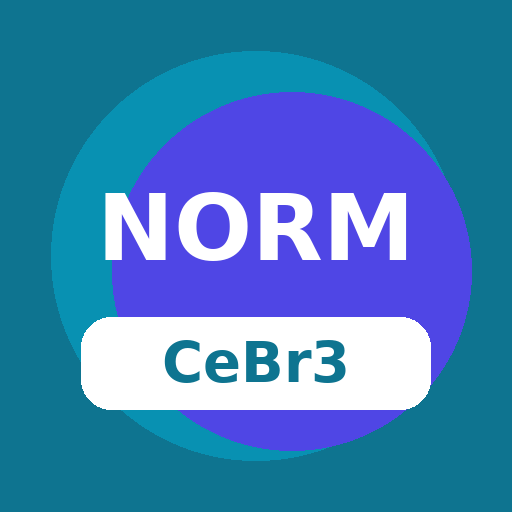
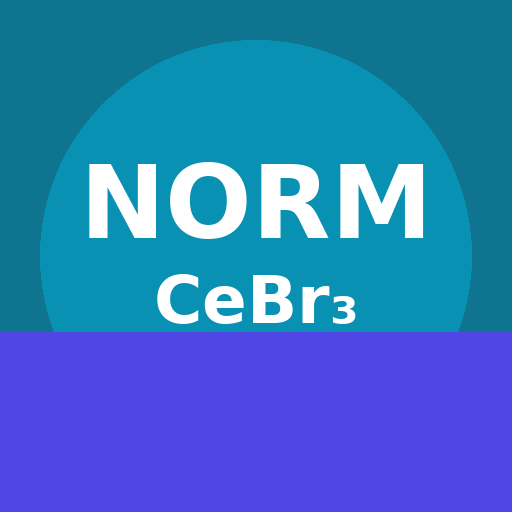
Add files via upload

diff --git a/index.html b/index.html
@@ -156,86 +156,60 @@
   .cfg-msg.ok{color:#047857}.cfg-msg.err{color:#dc2626}
 
 
-/* ===== NORM CeBr3 Mobile Stable v6: responsive patch, CSS only ===== */
-html, body { max-width:100%; overflow-x:hidden; }
-img, canvas, svg, video { max-width:100%; height:auto; }
-input, select, textarea, button { max-width:100%; }
-.scroll { max-width:100%; overflow-x:auto; -webkit-overflow-scrolling:touch; }
-.tbl, .card, .cfg-box, .cfg-panel, .modal { max-width:100%; }
-#peakTable { min-width:720px; }
+/* ===== Mobile/PWA stable patch v7: không làm thay đổi JavaScript gốc ===== */
+:root{--bottom-nav-h:72px}
+html,body{max-width:100%;overflow-x:hidden;}
+img,svg,canvas,video{max-width:100%;height:auto;}
+.mobile-bottom-nav{position:fixed;left:0;right:0;bottom:0;z-index:9999;display:none;background:rgba(255,255,255,.96);backdrop-filter:blur(12px);border-top:1px solid #dbeafe;box-shadow:0 -8px 28px rgba(15,23,42,.10);padding:6px max(6px,env(safe-area-inset-left)) max(6px,env(safe-area-inset-bottom)) max(6px,env(safe-area-inset-right));}
+.mobile-bottom-nav button{appearance:none;border:0;background:transparent;color:#334155;font-size:11px;font-weight:700;line-height:1.15;display:flex;flex-direction:column;align-items:center;justify-content:center;gap:3px;border-radius:14px;padding:6px 2px;min-width:0;}
+.mobile-bottom-nav button span{font-size:22px;line-height:1;}
+.mobile-bottom-nav button.active{background:#ecfeff;color:#0e7490;}
 
-.mobile-bottom-nav{display:none}
-
-@media (max-width: 760px){
-  body{font-size:15px;padding-bottom:82px;}
-  header .wrap{padding:12px 14px;display:block;}
+@media(max-width:820px){
+  body{font-size:14px;}
+  header .wrap{padding:12px 14px;}
   header h1{font-size:16px;line-height:1.25;}
-  header .sub{font-size:11px;white-space:normal;line-height:1.45;}
-  header .pill{display:inline-block;margin-top:8px;}
-  .cfgbar{width:100%;max-width:100%;padding:0 14px;}
-  .cfg-row{gap:8px;padding:10px 0;}
-  .cfg-title,.cfg-guide{width:100%;justify-content:center;padding:11px 12px;font-size:13px;}
-  .cfg-stat{display:block;width:100%;font-size:11px;line-height:1.45;}
-  .cfg-panel{padding:12px;border-radius:14px;}
-  .cfg-grid{grid-template-columns:1fr!important;gap:12px;}
-  .cfg-box{padding:12px;border-radius:14px;overflow:hidden;}
-  .cfg-btns{display:grid;grid-template-columns:1fr;gap:8px;}
-  .cfg-b{width:100%;padding:10px 12px;font-size:13px;}
-  .cfg-files{padding-left:16px;overflow-wrap:anywhere;}
-  .cfg-peaks{display:grid;grid-template-columns:1fr 1fr;gap:8px;}
-  .cfg-peaks label{display:flex;min-width:0;white-space:normal;line-height:1.35;padding:10px 9px;font-size:12px;}
-  .cfg-peaks input{flex:0 0 auto;}
-
-  main{display:block!important;width:100%;max-width:100%;padding:14px 14px 90px;}
-  main>section{width:100%;max-width:100%;}
-  .card{border-radius:14px;padding:14px;margin-bottom:14px;}
-  .head{align-items:flex-start;}
-  .head span{font-size:13px;line-height:1.3;}
-  label.row{display:block;margin:10px 0;}
-  label.row>span{display:block;margin-bottom:6px;white-space:normal;font-size:12.5px;}
-  label.row input,label.row select{width:100%!important;min-height:42px;font-size:16px;padding:9px 10px;}
-  input[type=number]{width:100%!important;font-size:16px;text-align:right;}
-  .btnrow{grid-template-columns:1fr;}
-  button{min-height:40px;font-size:13px;}
-  .dz{padding:24px 12px;border-radius:14px;}
-  .summ{grid-template-columns:1fr 1fr!important;gap:10px;}
-  .sc{border-radius:12px;}
-  .sc .v{font-size:20px;}
-  .adq{border-radius:10px;padding:10px;font-size:12px;line-height:1.45;}
-  .dbhead{display:block;padding:10px 12px;}
-  .dbhead .acts{display:grid;grid-template-columns:1fr;gap:8px;margin-top:8px;}
-  .dbhead input.search,.dbhead button{width:100%;min-height:38px;}
-  .filebar{display:block;line-height:1.5;}
-  .filebar .fb-btn{width:100%;margin-top:8px;min-height:38px;}
-  .kv{grid-template-columns:1fr;gap:6px;}
-  .modal{border-radius:14px;}
-  .overlay{padding:18px 10px;}
-
-  /* IAEA standard parameter table -> cards on phone */
-  .cfg-stdtbl,
-  .cfg-stdtbl thead,
-  .cfg-stdtbl tbody,
-  .cfg-stdtbl tr,
-  .cfg-stdtbl th,
-  .cfg-stdtbl td{display:block;width:100%;max-width:100%;}
-  .cfg-stdtbl{border-collapse:separate;border-spacing:0;}
-  .cfg-stdtbl thead{display:none;}
-  .cfg-stdtbl tr{background:#fff;border:1px solid #e2e8f0;border-radius:14px;padding:12px;margin:10px 0;box-shadow:0 1px 0 rgba(15,23,42,.03);}
-  .cfg-stdtbl td{border:0!important;padding:0!important;text-align:left!important;font-family:inherit!important;}
-  .cfg-stdtbl td:first-child{font-size:15px;font-weight:750;color:#0f766e;margin-bottom:10px;}
-  .cfg-stdtbl td:nth-child(2)::before{content:"Hoạt độ (Bq/kg)";display:block;font-size:11px;color:#475569;font-weight:650;margin:2px 0 4px;}
-  .cfg-stdtbl td:nth-child(3)::before{content:"Khối lượng m (kg)";display:block;font-size:11px;color:#475569;font-weight:650;margin:10px 0 4px;}
-  .cfg-stdtbl input{width:100%!important;max-width:100%;min-height:44px;text-align:right;font-size:16px;padding:9px 10px;border-radius:10px;}
-
-  .mobile-bottom-nav{position:fixed;left:0;right:0;bottom:0;z-index:80;display:grid;grid-template-columns:repeat(5,1fr);gap:0;background:rgba(255,255,255,.96);border-top:1px solid #e2e8f0;box-shadow:0 -6px 22px rgba(15,23,42,.10);backdrop-filter:saturate(180%) blur(10px);padding:6px 4px calc(6px + env(safe-area-inset-bottom));}
-  .mobile-bottom-nav button{appearance:none;background:transparent;border:0;border-radius:12px;min-height:54px;padding:4px 2px;color:#334155;font-weight:700;font-size:11px;line-height:1.1;display:flex;flex-direction:column;align-items:center;justify-content:center;gap:2px;}
-  .mobile-bottom-nav button span{font-size:20px;line-height:1;}
-  .mobile-bottom-nav button.active{background:#ecfeff;color:#0e7490;}
+  header .sub{font-size:11px;white-space:normal;}
+  main{display:block!important;width:100%!important;max-width:100%!important;padding:14px 10px calc(var(--bottom-nav-h) + 20px)!important;overflow-x:hidden!important;}
+  .cfgbar{width:100%!important;max-width:100%!important;padding:0 10px!important;overflow-x:hidden!important;}
+  .cfg-row{gap:8px;}
+  .cfg-title,.cfg-guide{width:100%;justify-content:center;}
+  .card,.tbl,.sc,.modal,.cfg-panel,.cfg-box{max-width:100%!important;overflow:hidden!important;border-radius:14px;}
+  .summ{grid-template-columns:repeat(2,minmax(0,1fr))!important;gap:10px;}
+  .sc .v{font-size:19px;overflow-wrap:anywhere;}
+  label.row{display:grid!important;grid-template-columns:1fr!important;align-items:start!important;gap:4px!important;margin:9px 0!important;}
+  label.row>span{white-space:normal!important;}
+  input,select,textarea{max-width:100%!important;min-width:0!important;}
+  input[type=number],input.grow,select.grow,.grow{width:100%!important;}
+  .btnrow{grid-template-columns:1fr!important;}
+  .dz{padding:20px 10px;}
+  .filebar,.dbhead{display:grid!important;grid-template-columns:1fr!important;gap:8px!important;}
+  .dbhead .acts{display:grid!important;grid-template-columns:1fr 1fr;gap:6px;width:100%;}
+  .dbhead input.search{width:100%!important;}
+  .scroll{display:block;max-width:100%!important;overflow-x:auto!important;-webkit-overflow-scrolling:touch;}
+  .scroll table{min-width:720px;}
+  .tbl:not(.no-scroll){overflow-x:auto!important;-webkit-overflow-scrolling:touch;}
+  .tbl:not(.no-scroll) table{min-width:720px;}
+  /* Riêng bảng Tham số chuẩn IAEA chuyển thành card để không tràn ngang */
+  .cfg-stdtbl{display:block!important;width:100%!important;max-width:100%!important;border-collapse:separate!important;}
+  .cfg-stdtbl thead{display:none!important;}
+  .cfg-stdtbl tbody{display:block!important;width:100%!important;}
+  .cfg-stdtbl tr{display:grid!important;grid-template-columns:1fr 1fr!important;gap:8px!important;width:100%!important;padding:10px 0!important;border-bottom:1px solid #e2e8f0!important;}
+  .cfg-stdtbl td{display:block!important;width:100%!important;border:0!important;padding:0!important;text-align:left!important;min-width:0!important;}
+  .cfg-stdtbl td:first-child{grid-column:1/-1!important;font-size:13px!important;background:#f8fafc;border-radius:9px;padding:7px 9px!important;}
+  .cfg-stdtbl td:nth-child(2)::before{content:'Hoạt độ (Bq/kg)';display:block;font-size:11px;color:#64748b;margin-bottom:3px;font-family:system-ui,-apple-system,'Segoe UI',Roboto,sans-serif;font-weight:650;}
+  .cfg-stdtbl td:nth-child(3)::before{content:'Khối lượng (kg)';display:block;font-size:11px;color:#64748b;margin-bottom:3px;font-family:system-ui,-apple-system,'Segoe UI',Roboto,sans-serif;font-weight:650;}
+  .cfg-stdtbl input{width:100%!important;max-width:100%!important;text-align:right!important;font-size:16px!important;padding:9px 10px!important;}
+  .kv{grid-template-columns:1fr!important;}
+  .modal{margin-bottom:calc(var(--bottom-nav-h) + 10px);}
+  .modal .mb{padding:14px;}
+  .mobile-bottom-nav{display:grid;grid-template-columns:repeat(5,minmax(0,1fr));}
 }
 
-@media (max-width: 390px){
-  .cfg-peaks{grid-template-columns:1fr;}
-  .summ{grid-template-columns:1fr!important;}
+@media(max-width:420px){
+  .summ{grid-template-columns:1fr 1fr!important;}
+  .cfg-stdtbl tr{grid-template-columns:1fr!important;}
+  .cfg-stdtbl td:first-child{grid-column:auto!important;}
 }
 
 </style>
@@ -794,98 +768,7 @@ function buildReportHTML(rep,smp,sumArg,peakArg){
   'td{padding:5px 8px;border-bottom:1px solid #f1f5f9}.r{text-align:right}'+
   '.note{font-size:12px;padding:8px 10px;border-left:3px solid '+noteCol+';background:'+noteBg+';margin-top:10px;border-radius:0 4px 4px 0}'+
   '.foot{margin-top:24px;padding-top:10px;border-top:1px solid #e2e8f0;font-size:11px;color:#475569;line-height:1.5}'+
-  '@media print{body{background:#fff}.page{box-shadow:none;margin:0;max-width:none;padding:0}}
-
-/* ===== NORM CeBr3 Mobile Stable v6: responsive patch, CSS only ===== */
-html, body { max-width:100%; overflow-x:hidden; }
-img, canvas, svg, video { max-width:100%; height:auto; }
-input, select, textarea, button { max-width:100%; }
-.scroll { max-width:100%; overflow-x:auto; -webkit-overflow-scrolling:touch; }
-.tbl, .card, .cfg-box, .cfg-panel, .modal { max-width:100%; }
-#peakTable { min-width:720px; }
-
-.mobile-bottom-nav{display:none}
-
-@media (max-width: 760px){
-  body{font-size:15px;padding-bottom:82px;}
-  header .wrap{padding:12px 14px;display:block;}
-  header h1{font-size:16px;line-height:1.25;}
-  header .sub{font-size:11px;white-space:normal;line-height:1.45;}
-  header .pill{display:inline-block;margin-top:8px;}
-  .cfgbar{width:100%;max-width:100%;padding:0 14px;}
-  .cfg-row{gap:8px;padding:10px 0;}
-  .cfg-title,.cfg-guide{width:100%;justify-content:center;padding:11px 12px;font-size:13px;}
-  .cfg-stat{display:block;width:100%;font-size:11px;line-height:1.45;}
-  .cfg-panel{padding:12px;border-radius:14px;}
-  .cfg-grid{grid-template-columns:1fr!important;gap:12px;}
-  .cfg-box{padding:12px;border-radius:14px;overflow:hidden;}
-  .cfg-btns{display:grid;grid-template-columns:1fr;gap:8px;}
-  .cfg-b{width:100%;padding:10px 12px;font-size:13px;}
-  .cfg-files{padding-left:16px;overflow-wrap:anywhere;}
-  .cfg-peaks{display:grid;grid-template-columns:1fr 1fr;gap:8px;}
-  .cfg-peaks label{display:flex;min-width:0;white-space:normal;line-height:1.35;padding:10px 9px;font-size:12px;}
-  .cfg-peaks input{flex:0 0 auto;}
-
-  main{display:block!important;width:100%;max-width:100%;padding:14px 14px 90px;}
-  main>section{width:100%;max-width:100%;}
-  .card{border-radius:14px;padding:14px;margin-bottom:14px;}
-  .head{align-items:flex-start;}
-  .head span{font-size:13px;line-height:1.3;}
-  label.row{display:block;margin:10px 0;}
-  label.row>span{display:block;margin-bottom:6px;white-space:normal;font-size:12.5px;}
-  label.row input,label.row select{width:100%!important;min-height:42px;font-size:16px;padding:9px 10px;}
-  input[type=number]{width:100%!important;font-size:16px;text-align:right;}
-  .btnrow{grid-template-columns:1fr;}
-  button{min-height:40px;font-size:13px;}
-  .dz{padding:24px 12px;border-radius:14px;}
-  .summ{grid-template-columns:1fr 1fr!important;gap:10px;}
-  .sc{border-radius:12px;}
-  .sc .v{font-size:20px;}
-  .adq{border-radius:10px;padding:10px;font-size:12px;line-height:1.45;}
-  .dbhead{display:block;padding:10px 12px;}
-  .dbhead .acts{display:grid;grid-template-columns:1fr;gap:8px;margin-top:8px;}
-  .dbhead input.search,.dbhead button{width:100%;min-height:38px;}
-  .filebar{display:block;line-height:1.5;}
-  .filebar .fb-btn{width:100%;margin-top:8px;min-height:38px;}
-  .kv{grid-template-columns:1fr;gap:6px;}
-  .modal{border-radius:14px;}
-  .overlay{padding:18px 10px;}
-
-  /* IAEA standard parameter table -> cards on phone */
-  .cfg-stdtbl,
-  .cfg-stdtbl thead,
-  .cfg-stdtbl tbody,
-  .cfg-stdtbl tr,
-  .cfg-stdtbl th,
-  .cfg-stdtbl td{display:block;width:100%;max-width:100%;}
-  .cfg-stdtbl{border-collapse:separate;border-spacing:0;}
-  .cfg-stdtbl thead{display:none;}
-  .cfg-stdtbl tr{background:#fff;border:1px solid #e2e8f0;border-radius:14px;padding:12px;margin:10px 0;box-shadow:0 1px 0 rgba(15,23,42,.03);}
-  .cfg-stdtbl td{border:0!important;padding:0!important;text-align:left!important;font-family:inherit!important;}
-  .cfg-stdtbl td:first-child{font-size:15px;font-weight:750;color:#0f766e;margin-bottom:10px;}
-  .cfg-stdtbl td:nth-child(2)::before{content:"Hoạt độ (Bq/kg)";display:block;font-size:11px;color:#475569;font-weight:650;margin:2px 0 4px;}
-  .cfg-stdtbl td:nth-child(3)::before{content:"Khối lượng m (kg)";display:block;font-size:11px;color:#475569;font-weight:650;margin:10px 0 4px;}
-  .cfg-stdtbl input{width:100%!important;max-width:100%;min-height:44px;text-align:right;font-size:16px;padding:9px 10px;border-radius:10px;}
-
-  .mobile-bottom-nav{position:fixed;left:0;right:0;bottom:0;z-index:80;display:grid;grid-template-columns:repeat(5,1fr);gap:0;background:rgba(255,255,255,.96);border-top:1px solid #e2e8f0;box-shadow:0 -6px 22px rgba(15,23,42,.10);backdrop-filter:saturate(180%) blur(10px);padding:6px 4px calc(6px + env(safe-area-inset-bottom));}
-  .mobile-bottom-nav button{appearance:none;background:transparent;border:0;border-radius:12px;min-height:54px;padding:4px 2px;color:#334155;font-weight:700;font-size:11px;line-height:1.1;display:flex;flex-direction:column;align-items:center;justify-content:center;gap:2px;}
-  .mobile-bottom-nav button span{font-size:20px;line-height:1;}
-  .mobile-bottom-nav button.active{background:#ecfeff;color:#0e7490;}
-}
-
-@media (max-width: 390px){
-  .cfg-peaks{grid-template-columns:1fr;}
-  .summ{grid-template-columns:1fr!important;}
-}
-
-</style>
-<link rel="manifest" href="./manifest.json">
-<meta name="theme-color" content="#0e7490">
-<meta name="mobile-web-app-capable" content="yes">
-<meta name="apple-mobile-web-app-capable" content="yes">
-<meta name="apple-mobile-web-app-title" content="NORM CeBr3">
-<link rel="apple-touch-icon" href="./icon-192.png">
-</head><body><div class="page">'+
+  '@media print{body{background:#fff}.page{box-shadow:none;margin:0;max-width:none;padding:0}}</style></head><body><div class="page">'+
   '<h1>Báo cáo định lượng NORM — phương pháp so sánh</h1>'+
   '<p class="sub">Viện Khoa học và Kỹ thuật Hạt nhân · đầu dò CeBr₃ 1.5″ (SN 01221005, HV 710 V) · bGamma</p><div class="bar"></div>'+
   '<div class="meta"><div><span>Khách hàng</span>'+esc(r.customer||"—")+'</div><div><span>Ngày đo</span>'+esc(r.date||"—")+'</div>'+
@@ -897,34 +780,7 @@ input, select, textarea, button { max-width:100%; }
   '<h2>Chi tiết theo đỉnh</h2><table><thead><tr><th>E (keV)</th><th>Đồng vị</th><th class="r">CF (cps/Bq)</th><th class="r">A_tổng (Bq)</th><th class="r">C_mẫu (Bq/kg)</th><th class="r">u (%)</th><th class="r">MDA (Bq/kg)</th><th class="r">Phông</th></tr></thead><tbody>'+peakRows+'</tbody></table>'+
   (adeq?'<div class="note">'+adeq+'</div>':'')+
   '<div class="foot">Chuỗi tính: CF = R_chuẩn,net /(C·m_chuẩn) → A_tổng = R_mẫu,net /CF → C_mẫu = A_tổng /m_mẫu. Trung bình trọng số theo 1/u². Xuất từ công cụ NORM · '+new Date().toLocaleString("vi-VN")+'.</div>'+
-  '</div>
-<nav class="mobile-bottom-nav" aria-label="Điều hướng nhanh">
-  <button type="button" data-go="load"><span>📥</span>Nạp mẫu</button>
-  <button type="button" data-go="results"><span>📊</span>Kết quả</button>
-  <button type="button" data-go="detail"><span>🧮</span>Chi tiết</button>
-  <button type="button" data-go="history"><span>🗂️</span>Lịch sử</button>
-  <button type="button" data-go="config"><span>⚙️</span>Cấu hình</button>
-</nav>
-<script>
-(function(){
-  function qs(s){return document.querySelector(s)}
-  function openCfg(){var p=qs('#cfgPanel'); if(p&&p.classList.contains('hidden')){var b=qs('#btnCfgToggle'); if(b) b.click(); else p.classList.remove('hidden');}}
-  function go(where){
-    var target=null;
-    if(where==='load') target=qs('#drop')||qs('main');
-    if(where==='results') target=qs('#summary')||qs('main section:nth-child(2)');
-    if(where==='detail') target=qs('#peakTable')||qs('.tbl');
-    if(where==='history') target=qs('#dbBody')||qs('.dbhead');
-    if(where==='config'){openCfg(); target=qs('#cfgBar');}
-    if(target) target.scrollIntoView({behavior:'smooth', block:'start'});
-    document.querySelectorAll('.mobile-bottom-nav button').forEach(function(b){b.classList.toggle('active', b.dataset.go===where);});
-  }
-  document.addEventListener('click',function(e){var b=e.target.closest&&e.target.closest('.mobile-bottom-nav button'); if(b) go(b.dataset.go);});
-  if('serviceWorker' in navigator){ window.addEventListener('load',function(){navigator.serviceWorker.register('./sw.js').catch(function(){});}); }
-})();
-</script>
-
-</body></html>';
+  '</div></body></html>';
 }
 
 /* ---------------- nạp file ---------------- */
@@ -1335,17 +1191,16 @@ document.addEventListener("DOMContentLoaded",init);
   function openCfg(){var p=qs('#cfgPanel'); if(p&&p.classList.contains('hidden')){var b=qs('#btnCfgToggle'); if(b) b.click(); else p.classList.remove('hidden');}}
   function go(where){
     var target=null;
-    if(where==='load') target=qs('#drop')||qs('main');
-    if(where==='results') target=qs('#summary')||qs('main section:nth-child(2)');
-    if(where==='detail') target=qs('#peakTable')||qs('.tbl');
+    if(where==='load') target=qs('#drop')||qs('.dz')||qs('main');
+    if(where==='results') target=qs('#summary')||qs('.summ')||qs('main');
+    if(where==='detail') target=qs('#peakDetail')||qs('.tbl')||qs('table');
     if(where==='history') target=qs('#dbBody')||qs('.dbhead');
     if(where==='config'){openCfg(); target=qs('#cfgBar');}
-    if(target) target.scrollIntoView({behavior:'smooth', block:'start'});
+    if(target&&target.scrollIntoView) target.scrollIntoView({behavior:'smooth', block:'start'});
     document.querySelectorAll('.mobile-bottom-nav button').forEach(function(b){b.classList.toggle('active', b.dataset.go===where);});
   }
-  document.addEventListener('click',function(e){var b=e.target.closest&&e.target.closest('.mobile-bottom-nav button'); if(b) go(b.dataset.go);});
+  document.addEventListener('click',function(e){var b=e.target.closest&&e.target.closest('.mobile-bottom-nav button'); if(b){e.preventDefault(); go(b.dataset.go);}});
   if('serviceWorker' in navigator){ window.addEventListener('load',function(){navigator.serviceWorker.register('./sw.js').catch(function(){});}); }
 })();
 </script>
-
 </body></html>

diff --git a/sw.js b/sw.js
@@ -1,18 +1,5 @@
-const CACHE_NAME = "norm-cebr3-mobile-stable-v6";
-const CORE_ASSETS = ["./", "./index.html", "./manifest.json", "./icon-192.png", "./icon-512.png"];
-self.addEventListener("install", event => {
-  self.skipWaiting();
-  event.waitUntil(caches.open(CACHE_NAME).then(cache => cache.addAll(CORE_ASSETS)));
-});
-self.addEventListener("activate", event => {
-  event.waitUntil(caches.keys().then(keys => Promise.all(keys.filter(k => k !== CACHE_NAME).map(k => caches.delete(k)))));
-  self.clients.claim();
-});
-self.addEventListener("fetch", event => {
-  if (event.request.method !== "GET") return;
-  event.respondWith(caches.match(event.request).then(cached => cached || fetch(event.request).then(resp => {
-    const copy = resp.clone();
-    caches.open(CACHE_NAME).then(cache => cache.put(event.request, copy));
-    return resp;
-  }).catch(() => caches.match("./index.html"))));
-});
+const CACHE_NAME='norm-cebr3-v7';
+const ASSETS=['./','./index.html','./manifest.json','./icon-192.png','./icon-512.png'];
+self.addEventListener('install',e=>{e.waitUntil(caches.open(CACHE_NAME).then(c=>c.addAll(ASSETS)));self.skipWaiting();});
+self.addEventListener('activate',e=>{e.waitUntil(caches.keys().then(keys=>Promise.all(keys.filter(k=>k!==CACHE_NAME).map(k=>caches.delete(k)))));self.clients.claim();});
+self.addEventListener('fetch',e=>{if(e.request.method!=='GET')return;e.respondWith(caches.match(e.request).then(r=>r||fetch(e.request).then(resp=>{const copy=resp.clone();caches.open(CACHE_NAME).then(c=>c.put(e.request,copy));return resp;}).catch(()=>caches.match('./index.html'))));});

diff --git a/README.md b/README.md
@@ -1,20 +1,10 @@
-# NORM CeBr3 Mobile Stable v6
+# NORM CeBr3 Mobile Stable v7
 
-Bản này được tạo lại từ file `NORM_cong_cu.html` gốc, giữ nguyên JavaScript/thuật toán và chỉ bổ sung lớp giao diện mobile + PWA.
+Bản cập nhật sửa lỗi JavaScript hiện ra ngoài giao diện và chống tràn ngang trên Android.
 
-## Upload lên GitHub Pages
+Triển khai trên GitHub Pages:
+1. Upload đè toàn bộ file trong gói này lên repository `CeBr3`.
+2. Vào Settings → Pages → Deploy from branch → main → /(root).
+3. Mở: https://ngdtuan.github.io/CeBr3/
 
-1. Xóa/ghi đè các file cũ trong repository `CeBr3`.
-2. Upload toàn bộ file trong gói này lên thư mục gốc repository.
-3. Bật Settings → Pages → Deploy from branch → main / root.
-4. Mở: https://ngdtuan.github.io/CeBr3/
-
-Nếu vẫn thấy bản cũ trên Android: Chrome → Site settings → Data stored → xóa dữ liệu của `ngdtuan.github.io`, sau đó mở lại.
-
-## Nội dung
-
-- `index.html`
-- `manifest.json`
-- `sw.js`
-- `icon-192.png`
-- `icon-512.png`
+Sau khi upload, trên điện thoại nên xóa cache hoặc mở tab ẩn danh để tránh service worker cũ.